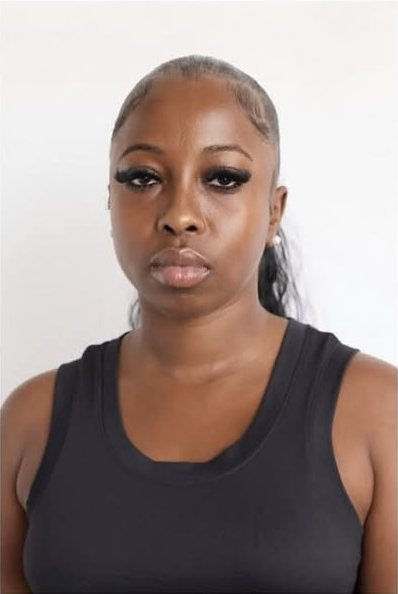
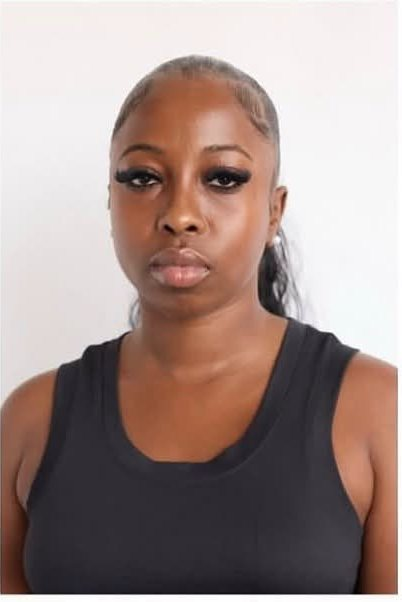
Add files via upload

diff --git a/js/roster.js b/js/roster.js
@@ -17,7 +17,7 @@ window.ROSTER = [
   /* ---------------- WOMEN ---------------- */
   { id: "aria-carmona", name: "Aria Carmona", division: "women", featured: true, instagram: "aria.glo",
     stats: { Height: `5'9"`, Bust: `34"`, Waist: `24"`, Hips: `34"`, Shoe: "10", Eyes: "Brown", Hair: "Black" },
-    images: photos("aria-carmona", 10) },
+    images: photos("aria-carmona", 12) },
 
   { id: "kiyana-simmons", name: "Kiyana Simmons", division: "women", featured: true, instagram: "pretti_beyond",
     stats: { Height: `5'2"`, Bust: `36"`, Waist: `33"`, Hips: `42"`, Shoe: "8", Eyes: "Brown", Hair: "Black" },
@@ -31,32 +31,19 @@ window.ROSTER = [
     stats: { Height: `6'0"`, Bust: `36"`, Waist: `28"`, Hips: `43"`, Eyes: "Brown", Hair: "Black" },
     images: photos("sanna-jackman", 5) },
 
-  { id: "lea-benjamin", name: "Lea Benjamin", division: "women", featured: true, instagram: "l.eabenjamin",
-    images: photos("lea-benjamin", 1) },
+  { id: "isabella-sabillon", name: "Isabella Sabillon", division: "women", featured: true,
+    stats: { Height: `5'4"`, Bust: `35"`, Waist: `27"`, Hips: `38"`, Dress: "4", Shoe: "8.5", Eyes: "Brown", Hair: "Brown" },
+    images: photos("isabella-sabillon", 4) },
+
+  { id: "julia-nelson-aaron", name: "Julia Nelson Aaron", division: "women",
+    stats: { Height: `5'6"`, Bust: `34"`, Waist: `28"`, Hips: `39"`, Shoe: "7.5", Eyes: "Blue/green", Hair: "Brown" },
+    images: photos("julia-nelson-aaron", 4) },
 
   { id: "lauren-dong", name: "Lauren Dong", division: "women", instagram: "laurenddong",
     images: photos("lauren-dong", 1) },
 
   { id: "sira", name: "Sira", division: "women", instagram: "sira.ashh",
     images: photos("sira-ashh", 1) },
-
-  { id: "elohelyza", name: "Elohelyza", division: "women", instagram: "elohelyza",
-    images: photos("elohelyza", 2) },
-
-  { id: "naumaree", name: "Naumaree", division: "women", instagram: "naumaree",
-    images: photos("naumaree", 1) },
-
-  { id: "lya", name: "Lya", division: "women",
-    images: photos("lya", 1) },
-
-  { id: "ashley", name: "Ashley", division: "women", instagram: "ashleyswave",
-    images: photos("ashley", 1) },
-
-  { id: "cay", name: "Cay", division: "women", instagram: "cayyfendii",
-    images: photos("cay", 2) },
-
-  { id: "tia", name: "Tia", division: "women",
-    images: photos("tia", 2) },
 
   { id: "phylicia", name: "Phylicia", division: "women", instagram: "phyliciaaxo",
     images: photos("phylicia", 2) },
@@ -68,18 +55,12 @@ window.ROSTER = [
     images: photos("amara-lopez", 2) },
 
   /* ---------------- MEN ---------------- */
-  { id: "radames", name: "Radames", division: "men", featured: true, instagram: "itz_radames",
-    images: photos("radames", 1) },
-
-  { id: "jacob-fields", name: "Jacob Fields", division: "men", instagram: "itboyjayke",
+  { id: "jacob-fields", name: "Jacob Fields", division: "men", featured: true, instagram: "itboyjayke",
     stats: { Height: `6'0"`, Chest: `36"`, Waist: `30.5"` },
     images: photos("jacob-fields", 4) },
 
   { id: "manpal-singh", name: "Manpal Singh", division: "men", instagram: "manpal01",
     images: photos("manpal-singh", 2) },
-
-  { id: "k3v", name: "K3V", division: "men", instagram: "blvck.fang",
-    images: photos("k3v", 2) },
 
   { id: "chibuike-onukaogu", name: "Chibuike Onukaogu", division: "men", instagram: "chibuike_onukaogu",
     images: photos("chibuike-onukaogu", 2) }

diff --git a/index.html b/index.html
@@ -49,7 +49,7 @@
     <section class="section">
       <div class="tiles">
         <a class="tile reveal" href="women.html"><img src="images/models/kiyana-simmons/01.jpg" alt="" loading="lazy"><span><em>Division</em>Women</span></a>
-        <a class="tile reveal" href="men.html"><img src="images/models/radames/01.jpg" alt="" loading="lazy"><span><em>Division</em>Men</span></a>
+        <a class="tile reveal" href="men.html"><img src="images/models/jacob-fields/01.jpg" alt="" loading="lazy"><span><em>Division</em>Men</span></a>
       </div>
     </section>
 

diff --git a/style.css b/style.css
@@ -193,7 +193,7 @@ body.menu-open .site-header .brand img { filter: none; }
   position: relative; aspect-ratio: 3 / 4; overflow: hidden; background: var(--stone);
 }
 .card .frame img {
-  position: absolute; inset: 0; width: 100%; height: 100%; object-fit: cover;
+  position: absolute; inset: 0; width: 100%; height: 100%; object-fit: cover; object-position: 50% 10%;
   transition: opacity .55s ease, transform 1.1s ease;
 }
 .card .frame img + img { opacity: 0; }
